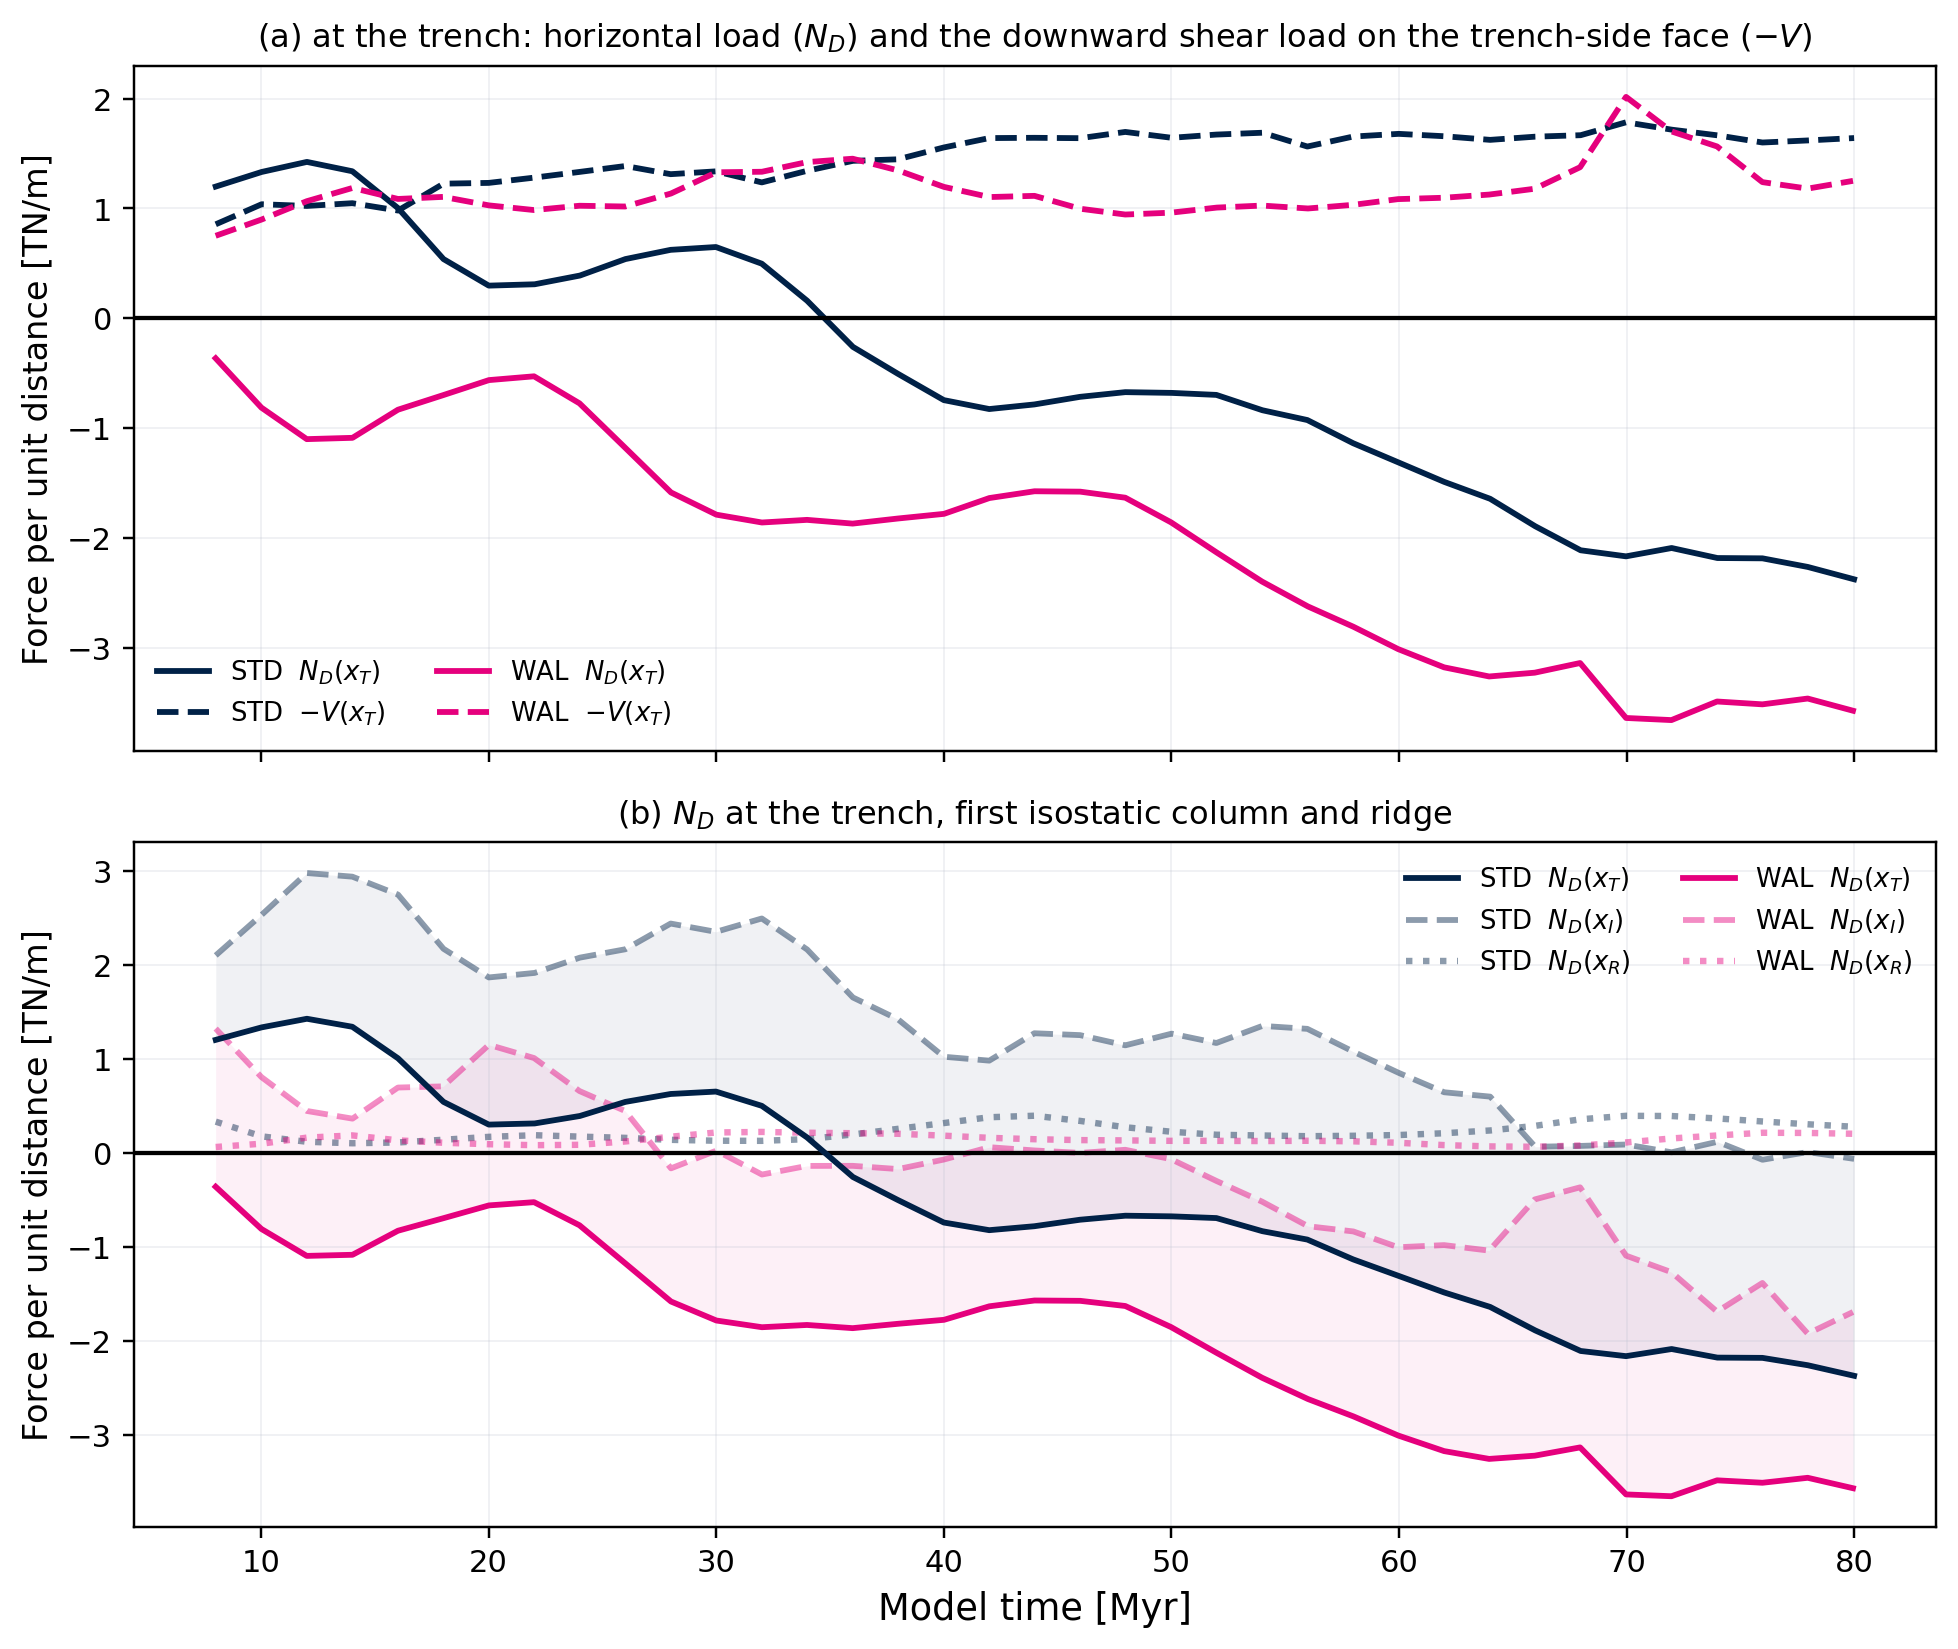
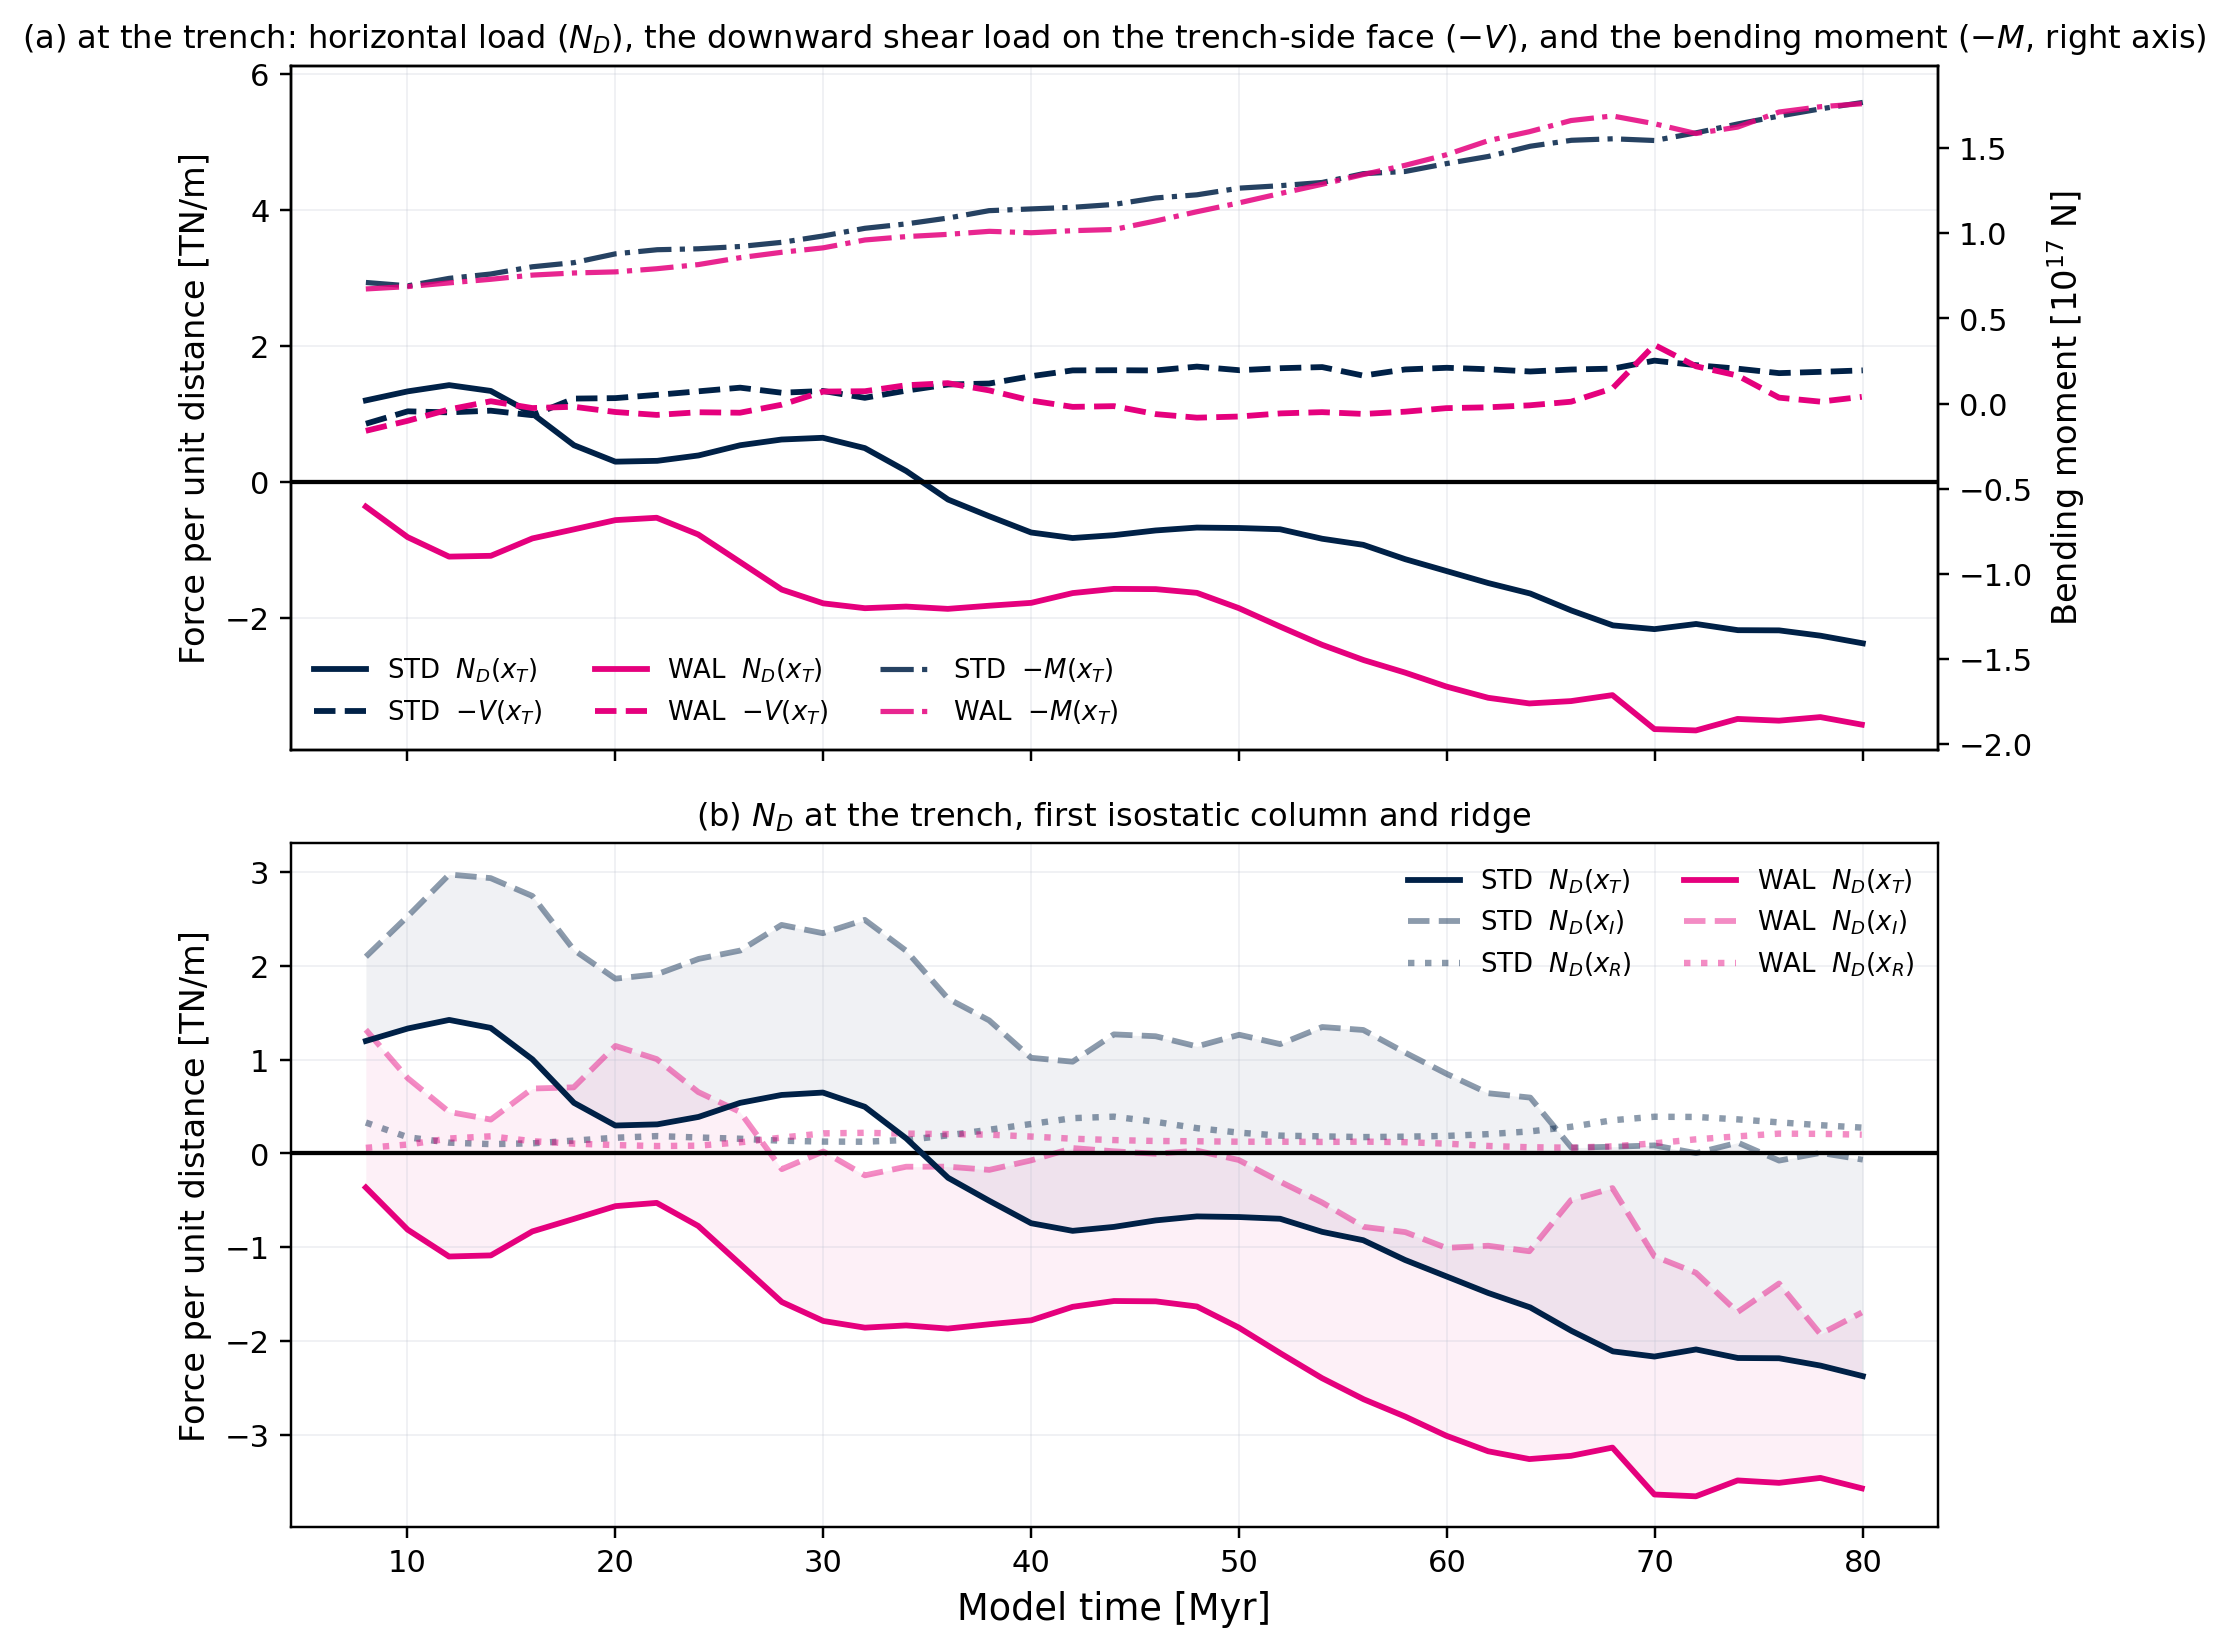
fig_trench_resultants: bending moment back in panel (a)
Dan, 2026-09-25. Panel (a) is the trench itself, so it should carry all
three resultants acting there: the horizontal load N_D, the downward shear
load on the trench-side face -V, and the bending moment. M is in N rather
than N/m, so it gets its own right axis.

-M is plotted, not M: the extracted moment is negative at every step in
both runs (-0.67 to -1.77 x 1e17 N), so negating keeps the panel's
quantities positive and matches the -V convention already used there. The
sign is constant, so nothing is lost.

Band separation: free-scaled, the moment curves swept the whole panel and
tangled with the forces. The force curves now get headroom so they occupy
the lower ~62 % and the right axis is set so the moment occupies the top
~30 % — two readable bands rather than six crossing curves, computed from
the data so it survives a re-run.

Median M(x_T) -1.17 (STD) / -1.02 (WAL) x 1e17 N, added to the table.

diff --git a/scripts/fig_trench_resultants.py b/scripts/fig_trench_resultants.py
@@ -91,6 +91,11 @@ C_RULE = '#BFC3D1'
 def main():
     d = cpc.load()
     fig, axes = plt.subplots(2, 1, figsize=(9, 7.6), sharex=True)
+    # BENDING MOMENT back in panel (a) (Dan, 2026-09-25): that panel is the
+    # trench itself -- the horizontal load, the vertical shear load and the
+    # moment are the three resultants acting there. M is in N, not N/m, so
+    # it needs its own axis.
+    a0b = axes[0].twinx()
     rows = [('model', 'quantity', 'value')]
     for key in ('STD', 'WAL'):
         col = C[key]
@@ -103,6 +108,12 @@ def main():
         face_load = -r['v_T']
         axes[0].plot(t[m], r['nd_T'][m] * 1e-12, '-', label=f'{key}  $N_D(x_T)$', **kw)
         axes[0].plot(t[m], face_load[m] * 1e-12, '--', label=f'{key}  $-V(x_T)$', **kw)
+        # -M, not M: the extracted moment is negative at every step in both
+        # runs (-0.67 to -1.77 x 1e17 N), so plotting its negation keeps the
+        # panel's quantities positive and matches the -V convention already
+        # used here. The sign is constant, so nothing is lost.
+        a0b.plot(t[m], -r['m_T'][m] / 1e17, '-.', color=col, lw=1.7, alpha=0.85,
+                 label=f'{key}  $-M(x_T)$')
         # the gap between the trench and first-isostatic curves IS the
         # trench pull increment, Delta N_D across the non-isostatic domain
         axes[1].fill_between(t[m], r['nd_T'][m] * 1e-12, r['nd_I'][m] * 1e-12,
@@ -120,7 +131,10 @@ def main():
         med = lambda a: np.median(a[m]) / 1e12
         print(f'{key}: N_D trench {med(r["nd_T"]):+.2f}, x_I {med(r["nd_I"]):+.2f}, '
               f'ridge {med(r["nd_R"]):+.2f} TN/m; downward shear load at the '
-              f'trench face {med(face_load):+.2f} (extracted V {med(r["v_T"]):+.2f})')
+              f'trench face {med(face_load):+.2f} (extracted V {med(r["v_T"]):+.2f}); '
+              f'M(x_T) {np.median(r["m_T"][m])/1e17:+.2f} x 1e17 N')
+        rows.append((key, 'moment_trench_median_1e17N',
+                     f'{np.median(r["m_T"][m]) / 1e17:.3f}'))
         for name, arr in (('nd_trench', r['nd_T']), ('nd_first_isostatic', r['nd_I']),
                           ('nd_ridge', r['nd_R']),
                           ('shear_load_trench_face_down', face_load),
@@ -147,8 +161,21 @@ def main():
                   f'{(d_tr > 0).mean():.3f}'),
                  (key, 'abs_v_over_abs_nd_trench_median',
                   f'{np.median(np.abs(v_t) / np.abs(nd_t)):.2f}')]
-    axes[0].set_title('(a) at the trench: horizontal load ($N_D$) and the downward '
-                      'shear load on the trench-side face ($-V$)', fontsize=10.5)
+    axes[0].set_title('(a) at the trench: horizontal load ($N_D$), the downward '
+                      'shear load on the trench-side face ($-V$), and the '
+                      'bending moment ($-M$, right axis)', fontsize=10.5)
+    a0b.set_ylabel(r'Bending moment [$10^{17}$ N]', fontsize=11)
+    # BAND SEPARATION. Left free-scaled, the moment curves sweep the whole
+    # panel and tangle with N_D and -V. Instead the force curves are given
+    # headroom so they occupy the lower ~62 % of the panel, and the right
+    # axis is set so the moment occupies the top ~30 % -- two readable
+    # bands rather than six crossing curves. Computed from the data so it
+    # survives a re-run.
+    fl, fh = axes[0].get_ylim()
+    axes[0].set_ylim(fl, fl + (fh - fl) / 0.62)
+    ml, mh = a0b.get_ylim()
+    span = (mh - ml) / 0.30
+    a0b.set_ylim(ml - 0.66 * span, ml - 0.66 * span + span)
     axes[1].set_title('(b) $N_D$ at the trench, first isostatic column and ridge',
                       fontsize=10.5)
     axes[1].set_xlabel('Model time [Myr]', fontsize=12)
@@ -156,7 +183,12 @@ def main():
         ax.axhline(0, color='k', lw=1.4)
         ax.grid(alpha=0.25, color=C_RULE, lw=0.6)
         ax.set_ylabel('Force per unit distance [TN/m]', fontsize=11)
-        ax.legend(frameon=False, fontsize=8.5, ncol=2, loc='best')
+    # panel (a)'s legend must gather both axes' handles
+    h0, l0 = axes[0].get_legend_handles_labels()
+    hb, lb = a0b.get_legend_handles_labels()
+    axes[0].legend(h0 + hb, l0 + lb, frameon=False, fontsize=8.5, ncol=3,
+                   loc='lower left')
+    axes[1].legend(frameon=False, fontsize=8.5, ncol=2, loc='best')
     fig.tight_layout()
     out = os.path.join(ROOT, 'figures', 'fig_trench_resultants.png')
     fig.savefig(out, bbox_inches='tight', dpi=220)
